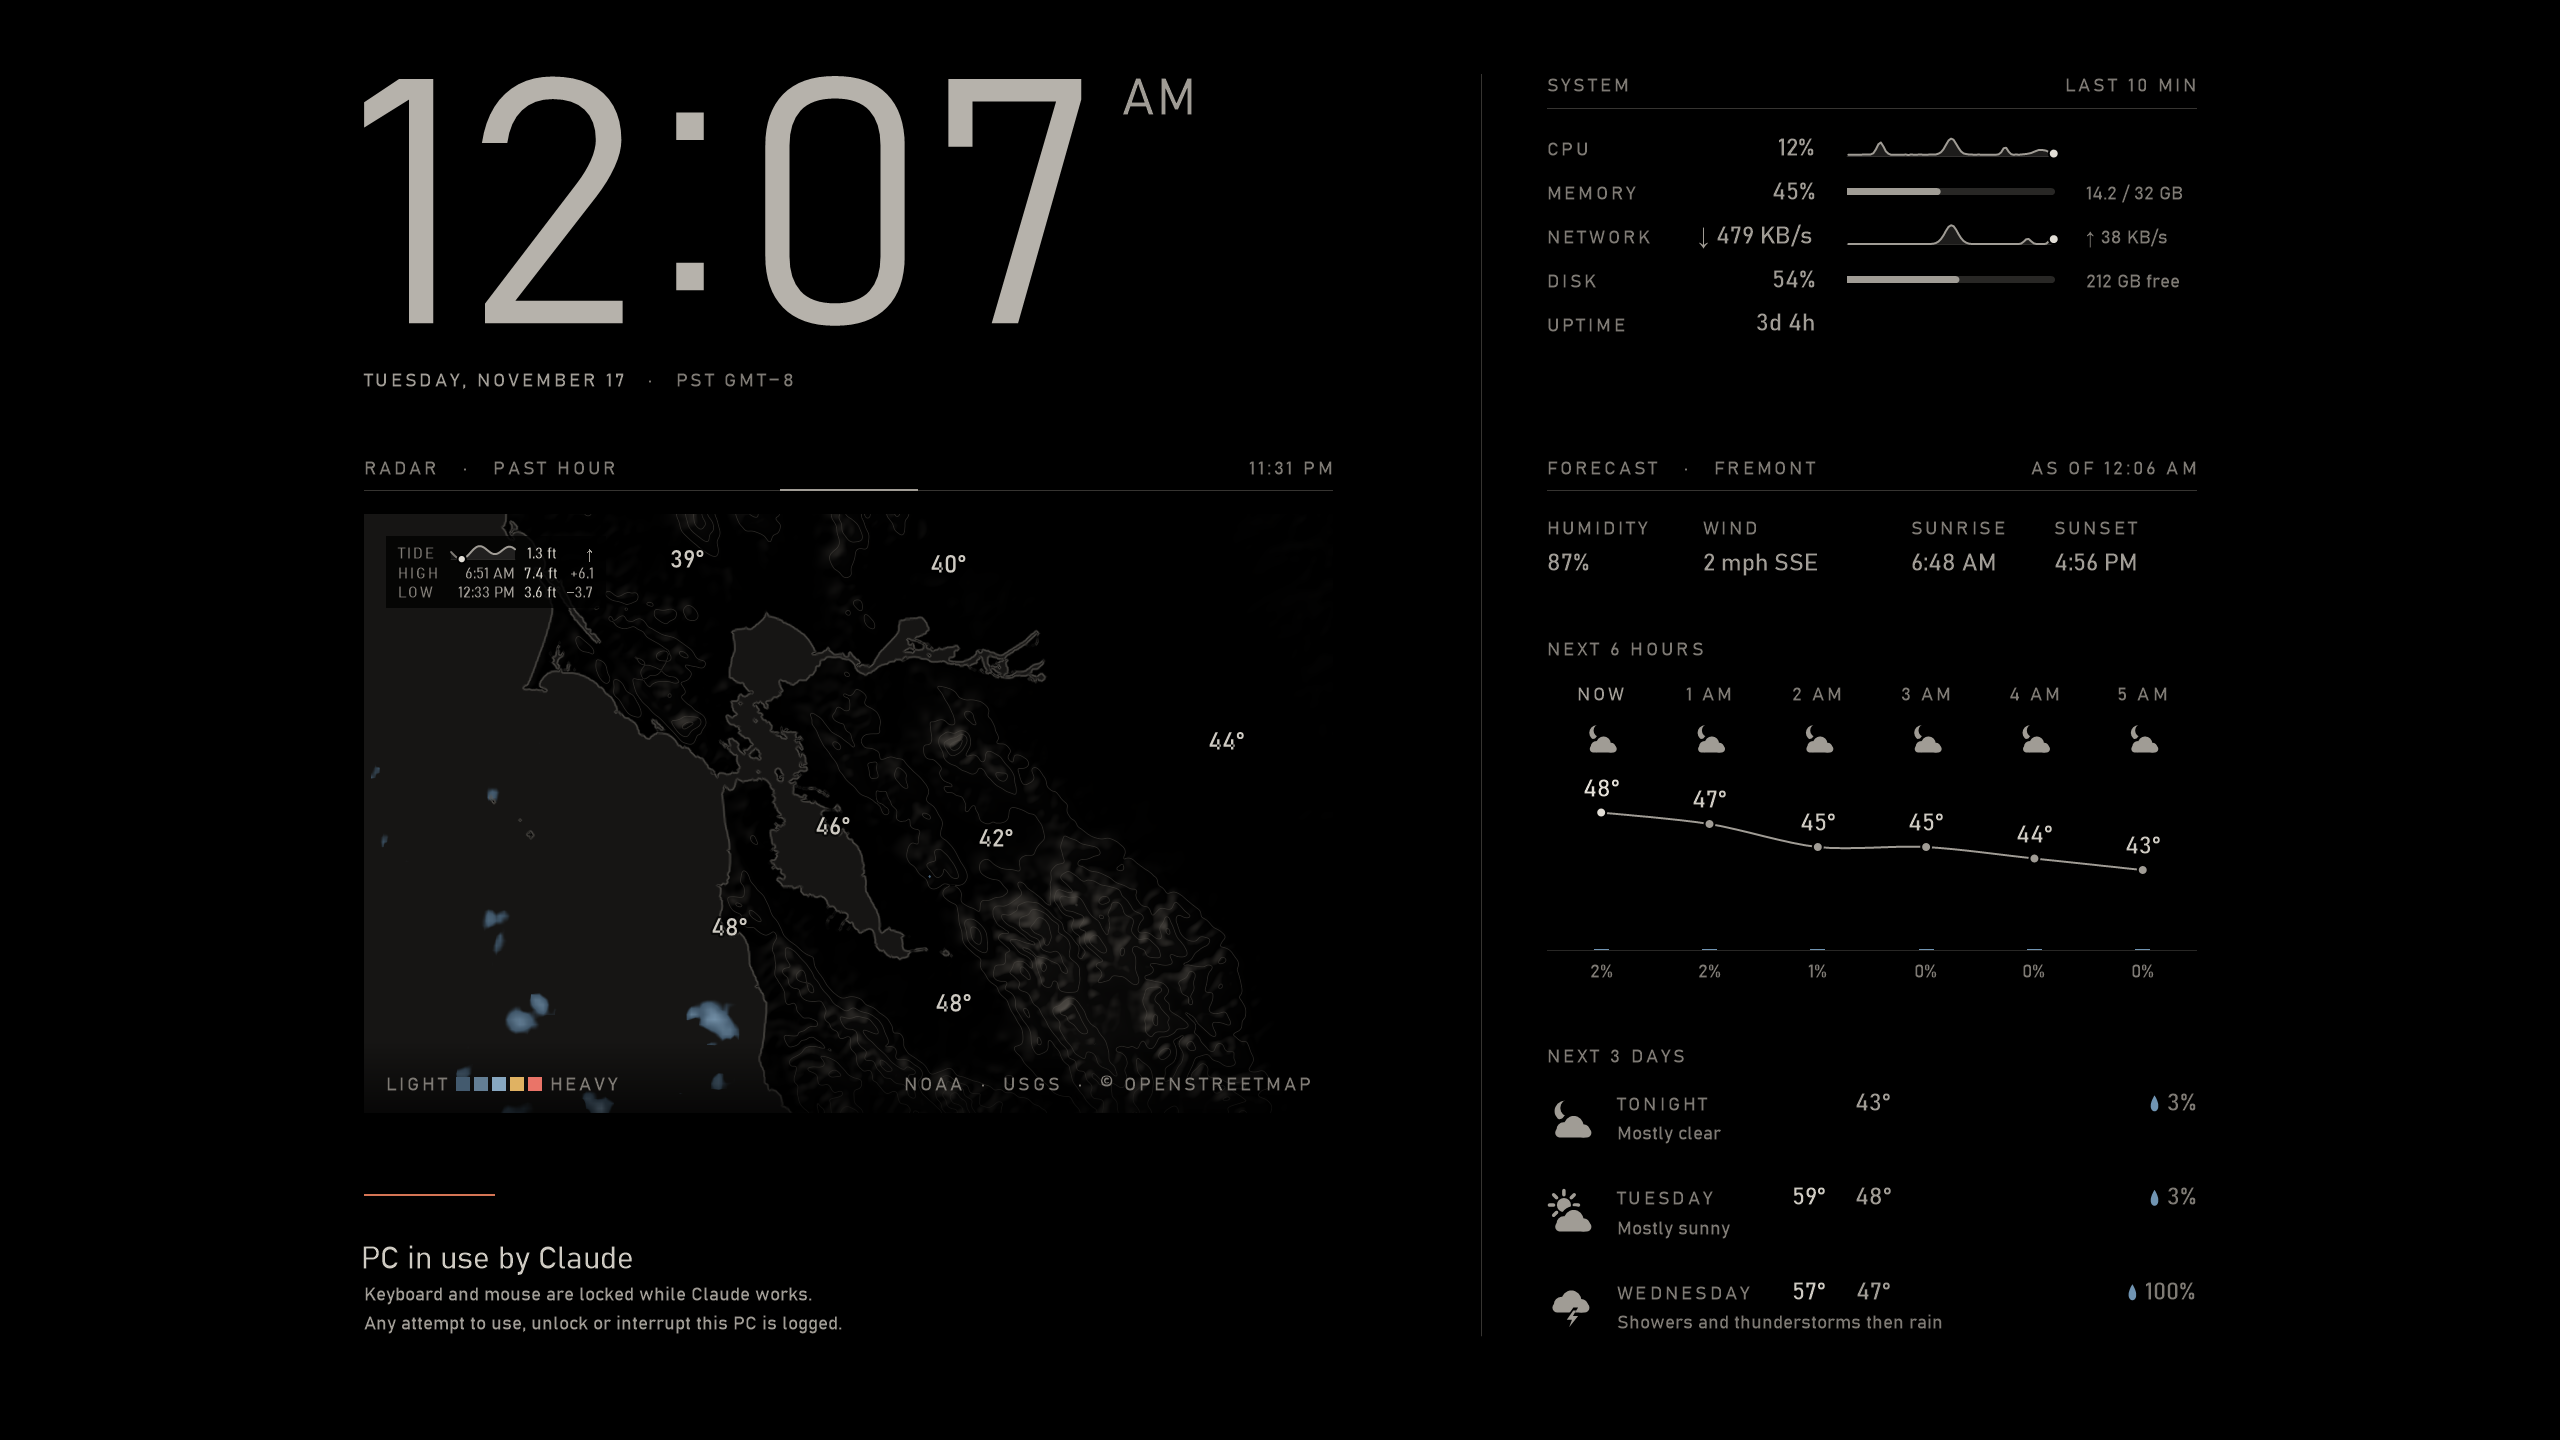
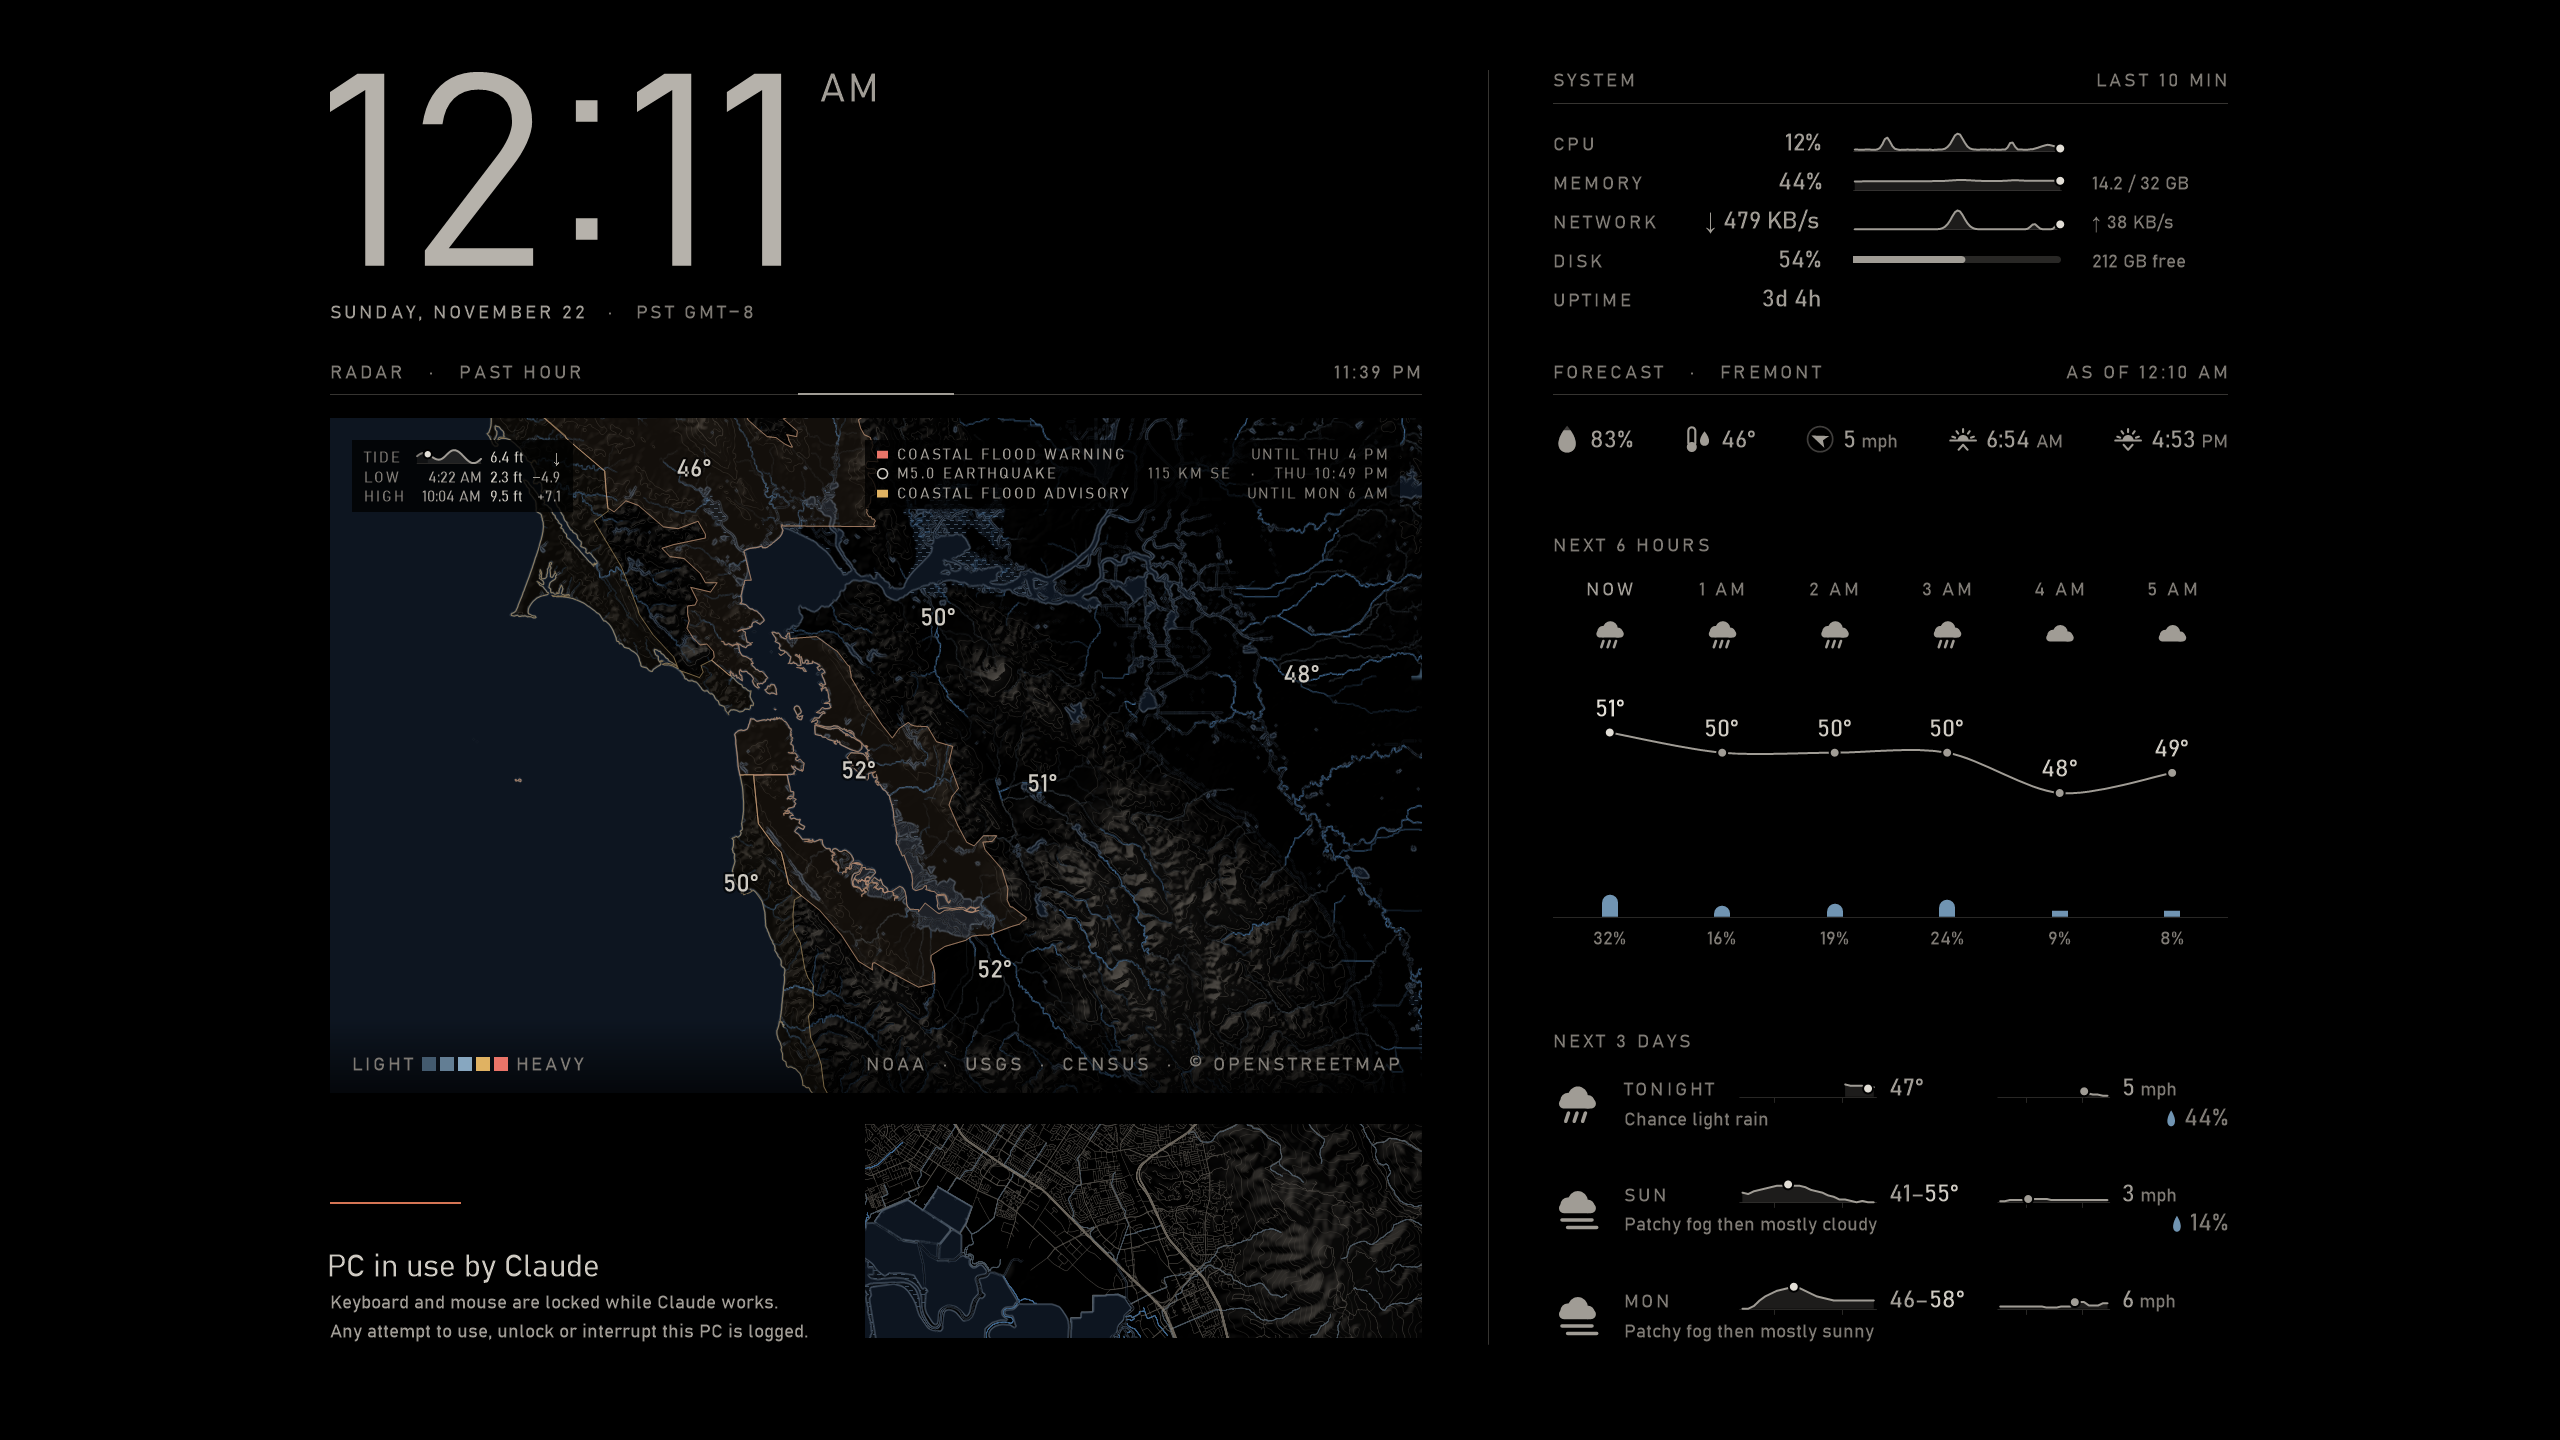
Docs: the pictures with the conditions as symbols and the close-up
The first picture is rendered again from the curtain's real map, home
left off it as before: the Bay Area in radar mode with no rain on it,
the close-up of the town's streets under the map, the forecast's
conditions as symbols with the dew point, and the days as small
temperature and wind graphs. Its alt text says what it shows. The
construction drawing shows the new conditions row on the sample data.

diff --git a/README.md b/README.md
@@ -4,7 +4,7 @@ A black screen that covers every monitor and blocks the physical keyboard and mo
 (injected) clicks, typing and screenshots keep working underneath. It's for hiding an automated session on
 a machine you share a room with, without taking the machine away from yourself.
 
-![The curtain on a 2560 × 1440 screen: a large clock with the date and time zone, a radar map of the San Francisco Bay Area below it with its hills shaded and contoured, a few light showers off the coast, temperatures around the Bay and a tide table in the corner, the message "PC in use by Claude", and a data column with ten-minute CPU and network sparklines, memory and disk bars, then the forecast: humidity, wind, sunrise and sunset, the next six hours as a temperature curve over rain-chance bars, and three days](docs/curtain.png)
+![The curtain on a 2560 × 1440 screen: a large clock with the date and time zone; a radar map of the San Francisco Bay Area below it, its hills shaded and contoured and no rain on it, with temperatures around the Bay, a tide table in one corner and the weather alerts in the other; under the map the message "PC in use by Claude" beside a close-up of the town's streets; and a data column with ten-minute CPU and network sparklines, memory and disk bars, then the forecast: the conditions now as small symbols (humidity, dew point, wind, sunrise and sunset), the next six hours as a temperature curve over rain-chance bars, and three days as small temperature and wind graphs](docs/curtain.png)
 
 Awareness, not lockout: it counts and logs every blocked key press, click and escape attempt, can ping your
 phone while someone is at the keyboard, and shows a "While you were away" summary when you unlock. The
